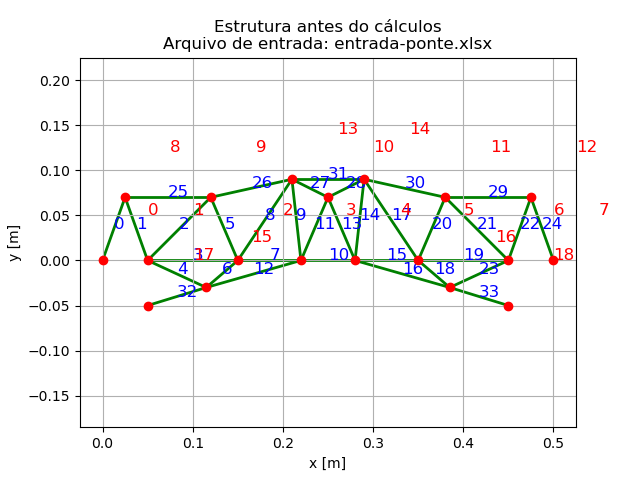
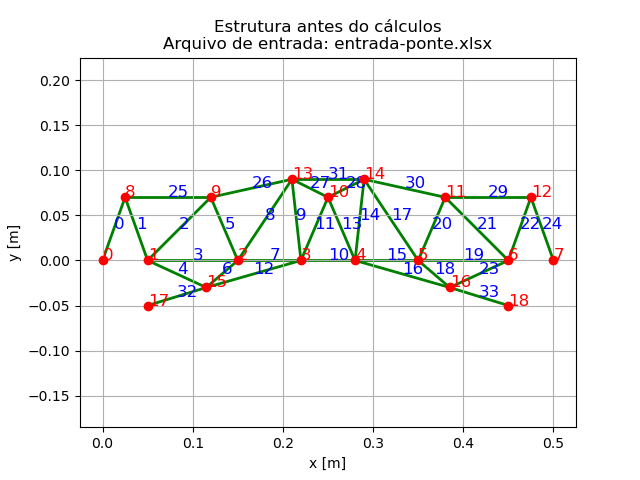
Fix node index placement on plot

diff --git a/structure.py b/structure.py
@@ -241,7 +241,7 @@ class Structure():
             if element.node1.index not in drawnNodes:
                 plt.plot(element.node1.x, element.node1.y,
                          "ro", markersize=6, zorder=10)
-                plt.text(element.node1.x + 0.05, element.node1.y + 0.05,
+                plt.text(element.node1.x, element.node1.y,
                          str(element.node1.index), color="r", fontsize=12, zorder=10)
                 drawnNodes.append(element.node1.index)
 
@@ -252,7 +252,7 @@ class Structure():
             if element.node2.index not in drawnNodes:
                 plt.plot(element.node2.x, element.node2.y,
                          "ro", markersize=6, zorder=10)
-                plt.text(element.node2.x + 0.05, element.node2.y + 0.05,
+                plt.text(element.node2.x, element.node2.y,
                          str(element.node2.index), color="r", fontsize=12, zorder=10)
                 drawnNodes.append(element.node2.index)
 
